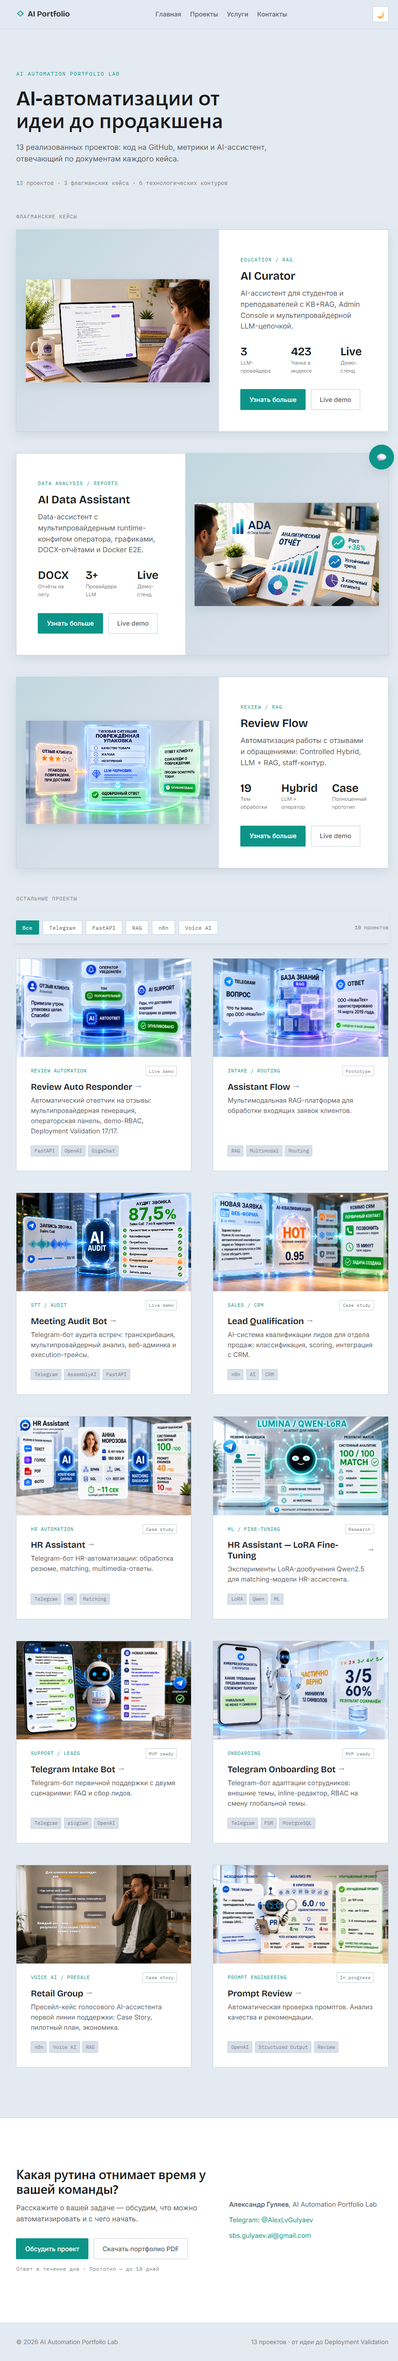
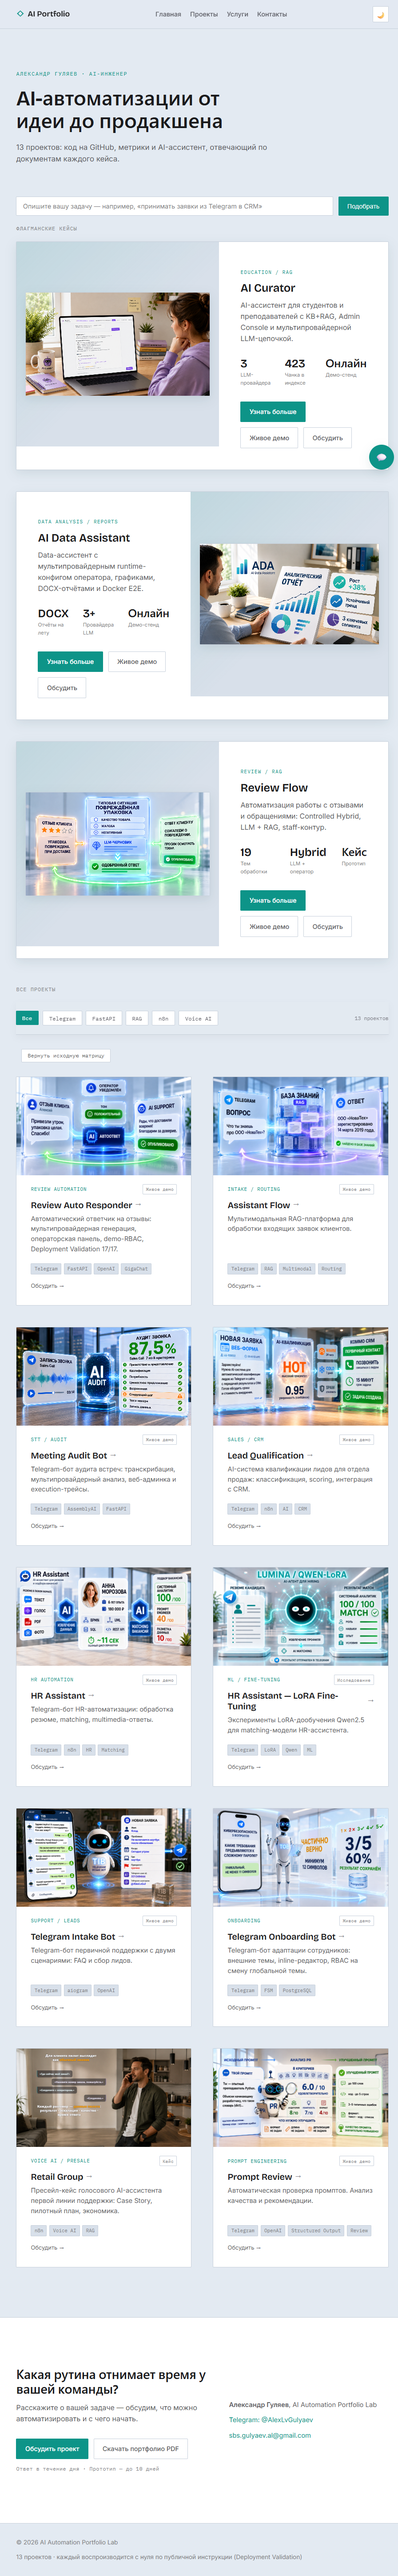
docs(media): 9 скриншотов UI — сцена подбора, панель документа, контакты, аудит, промпт-версии, health, обзор, документы, оценка ответа
- MEDIA_INDEX: IMG-006…IMG-014, матрица использования обновлена
- E2E_SCENARIOS: кадры в §1.1, §1.3, §1.4, §1.5, §2.2, §2.3, §2.4; новый §2.5
  «Проверка здоровья системы» (обзор + матрица retrieval-бэкендов)
- SYSTEM_DEMO: кадры в §1.4, §2 (обзор), §2.2, §2.3
- OPERATIONS §3.4: смена провайдера в аудите — admin-действие activate ai_config
- ROADMAP §5: полировка пресейл-аналитики (пустой вид при малых данных)

diff --git a/docs/E2E_SCENARIOS.md b/docs/E2E_SCENARIOS.md
@@ -20,6 +20,10 @@
 
 Что гарантируется на шаге 3: факты о составе портфеля ассистент берёт только из официального реестра проектов; утверждения о реализации — только из одобренных документов; каждый содержательный ответ сопровождается источниками.
 
+*IMG-007 — панель документа по клику на карточку источника:*
+
+![Панель документа с подсвеченным фрагментом](screenshots/AIP_ui_document_panel.png)
+
 ### 1.2. 🤖 Вопрос вне портфеля → честный ответ
 
 | Шаг | Действие | Результат |
@@ -36,6 +40,10 @@
 | 2 | Открывает «Услуги» → «Контакты» | Форма и состав сообщения для обращения |
 | 3 | Визит, открытие чата и вопросы фиксируются в пресейл-воронке | Владелец видит путь гостя в «Аналитика → Пресейл» |
 
+*IMG-008 — страница «Контакты»: каналы обращения и состав первого сообщения:*
+
+![Страница контактов](screenshots/AIP_ui_contacts.png)
+
 ### 1.4. 🧲 Подбор кейса под задачу (сцена на главной)
 
 | Шаг | Действие | Результат |
@@ -45,12 +53,20 @@
 | 3 | Если прямого кейса под задачу нет | Показаны 1–2 ближайших по смыслу с честной оговоркой |
 | 4 | Гость нажимает «Все» | Возвращается полная витрина |
 
+*IMG-006 — сцена подбора: задача «нужен бот приёма заявок из Telegram с выгрузкой в CRM», подобранные кейсы со строками «почему подходит»:*
+
+![Подбор кейса под задачу](screenshots/AIP_ui_case_match.png)
+
 ### 1.5. 👍 Оценка ответа ассистента
 
 | Шаг | Действие | Результат |
 |-----|----------|-----------|
 | 1 | Гость получает ответ ассистента | Под ответом — кнопки 👍 / 👎 |
 | 2 | Гость ставит оценку | Событие `chat_feedback` фиксируется анонимно (аналитика качества ответов) |
+
+*IMG-014 — короткий ответ ассистента с кнопками 👍/👎:*
+
+![Оценка ответа ассистента](screenshots/AIP_ui_chat_feedback.png)
 
 ---
 
@@ -77,6 +93,12 @@
 | 3 | Состав утверждён, синхронизация выполнена | Статус ✅ Одобрен, счётчик обновлён |
 | 4 | Кеш ответов инвалидируется автоматически | Ассистент отвечает по обновлённым документам |
 
+Контроль состава корпуса после обновления — консоль «Документы»:
+
+*IMG-013 — состав корпуса по файлам и источникам:*
+
+![Список документов корпуса](screenshots/AIP_ui_documents_list.png)
+
 ### 2.3. 📝 Смена системного промпта
 
 | Шаг | Действие | Консоль |
@@ -86,13 +108,37 @@
 | 3 | Контрольный вопрос подтверждает новое поведение | Ответ ассистента отражает обновлённые правила |
 | 4 | При необходимости — откат к любой исторической версии или к вшитому fallback | Одно действие в списке версий |
 
+*IMG-010 — панель «Системный промпт»: активная версия и история версий:*
+
+![Версии системного промпта](screenshots/AIP_ui_prompt_versions.png)
+
 ### 2.4. 🔌 Отказ основного LLM-провайдера → фоллбэк
 
 | Шаг | Действие | Результат |
 |-----|----------|-----------|
 | 1 | OpenAI стал отвечать ошибками | Чат-контур детектирует сбой провайдера |
 | 2 | Ответ собирается через GigaChat fallback | Гость получает ответ; переключение фиксируется в аудите |
-| 3 | Администратор видит переключение в «Наблюдаемость → Аудит» | Журнал провайдеров: активный → fallback |
+| 3 | Администратор видит переключение в «Наблюдаемость → Аудит» | Журнал провайдеров: активный → fallback (запись admin-действия `activate ai_config`) |
+
+*IMG-009 — аудит: записи admin-действий, среди них смена активного провайдера:*
+
+![Аудит admin-действий](screenshots/AIP_ui_audit_provider_switch.png)
+
+### 2.5. 🩺 Проверка здоровья системы
+
+| Шаг | Действие | Консоль |
+|-----|----------|---------|
+| 1 | Открыт «Система → Обзор» | Статусы PostgreSQL, векторного стора, LLM-провайдеров; объём KB; Last Sync |
+| 2 | Открыта «Система → Retrieval» | Матрица здоровья бэкендов: активный бэкенд (⚡), объём чанков, готовность каждого |
+| 3 | Контрольный вопрос ассистенту на сайте | Ответ со источниками — штатный путь работает |
+
+*IMG-012 — «Система → Обзор»:*
+
+![Обзор системы](screenshots/AIP_ui_system_overview.png)
+
+*IMG-011 — матрица здоровья векторных бэкендов:*
+
+![Матрица здоровья бэкендов](screenshots/AIP_ui_retrieval_health.png)
 
 ---
 

diff --git a/docs/screenshots/MEDIA_INDEX.md b/docs/screenshots/MEDIA_INDEX.md
@@ -27,6 +27,15 @@
 | IMG-003 | `AIP_ui_home_cards.png` | Главная страница — витрина карточек кейсов (одна из тем) | ✅ Готов |
 | IMG-004 | `AIP_ui_admission_source.png` | Карточка источника в консоли допуска (Admin Console → «Источники и синхронизация») | ✅ Готов |
 | IMG-005 | `AIP_ui_dialogs_execution.png` | Диалоговая сессия: парные реплики и execution-таймлайн (Admin Console → «Диалоги») | ✅ Готов |
+| IMG-006 | `AIP_ui_case_match.png` | Сцена подбора кейса по задаче на главной: поле задачи и подобранные кейсы со строками «почему подходит» | ✅ Готов |
+| IMG-007 | `AIP_ui_document_panel.png` | Панель документа в чате: фрагмент с подсвеченным цитированным местом и «GitHub →» | ✅ Готов |
+| IMG-008 | `AIP_ui_contacts.png` | Страница «Контакты»: каналы обращения и состав первого сообщения | ✅ Готов |
+| IMG-009 | `AIP_ui_audit_provider_switch.png` | Аудит: записи admin-действий (`activate ai_config` — смена активного LLM-провайдера) | ✅ Готов |
+| IMG-010 | `AIP_ui_prompt_versions.png` | Панель «Системный промпт»: активная версия и история версий (Admin Console → «Система → AI-настройки») | ✅ Готов |
+| IMG-011 | `AIP_ui_retrieval_health.png` | Матрица здоровья векторных бэкендов: активный бэкенд, объём чанков, готовность | ✅ Готов |
+| IMG-012 | `AIP_ui_system_overview.png` | «Система → Обзор»: статусы бэкендов, объём KB, Last Sync | ✅ Готов |
+| IMG-013 | `AIP_ui_documents_list.png` | Консоль «Документы»: состав корпуса по файлам и источникам | ✅ Готов |
+| IMG-014 | `AIP_ui_chat_feedback.png` | Короткий ответ ассистента с кнопками оценки 👍/👎 под ответом | ✅ Готов |
 
 ---
 
@@ -45,10 +54,19 @@
 | IMG-003 | §1.3 | — | — |
 | IMG-004 | §2.1 | — | — |
 | IMG-005 | §2.3 | — | — |
+| IMG-006 | — | §1.4 | — |
+| IMG-007 | — | §1.1 | — |
+| IMG-008 | §1.4 | §1.3 | — |
+| IMG-009 | §2.3 | §2.4 | — |
+| IMG-010 | §2.2 | §2.3 | — |
+| IMG-011 | — | §2.5 | — |
+| IMG-012 | §2 | §2.5 | — |
+| IMG-013 | — | §2.2 | — |
+| IMG-014 | — | §1.5 | — |
 
-Матрица сверена с фактическими вставками (03.09.2026): все пять изображений используются только в SYSTEM_DEMO.
+Матрица сверена с фактическими вставками (04.09.2026): пять кадров первого батча — в SYSTEM_DEMO, девять кадров второго батча (03.09–04.09) — в E2E_SCENARIOS и SYSTEM_DEMO.
 
-**Кандидаты следующего батча** (реализовано 03.09, скриншотов пока нет): панель документа с подсветкой фрагмента (USER_GUIDE §3, E2E 1.1 шаг 4), сцена подбора кейса по задаче на главной (USER_GUIDE §2, E2E 1.4), кнопки оценки ответа 👍/👎 (USER_GUIDE §3, E2E 1.5). Снятие и подписи — по решению владельца.
+**Кандидаты следующего батча:** пресейл-дашборд («Аналитика → Пресейл» — панель нуждается в полировке пост-релизом, см. [`../ROADMAP.md`](../ROADMAP.md) §5).
 
 ---
 

diff --git a/docs/SYSTEM_DEMO.md b/docs/SYSTEM_DEMO.md
@@ -42,11 +42,19 @@
 **Сделайте:** главная → лендинг релевантного кейса → «Услуги» → «Контакты».
 **Вы увидите:** полный пресейл-маршрут от вопроса к ассистенту до контакта; на странице кейса — что именно реализовано и какими метриками подтверждено.
 
+*IMG-008 — страница «Контакты», конечная точка маршрута:*
+
+![Страница контактов](screenshots/AIP_ui_contacts.png)
+
 ---
 
 ## 🎛 2. Admin Console в работе
 
 Консоль: https://af-admin.alex-n8n.site (доступ по токену — см. [`docs/ADMIN_GUIDE.md`](ADMIN_GUIDE.md)).
+
+*IMG-012 — «Система → Обзор»: статусы бэкендов, объём KB, Last Sync:*
+
+![Обзор системы](screenshots/AIP_ui_system_overview.png)
 
 ### 2.1. 🔄 Управляемый допуск знаний
 
@@ -62,6 +70,10 @@
 **Где:** «Система → AI-настройки».
 **Вы увидите:** активную версию системного промпта, историю версий с возможностью отката и сброс к вшитому fallback. Текст активного промпта опубликован целиком — [`docs/PROMPT_ARCHITECTURE.md`](PROMPT_ARCHITECTURE.md).
 
+*IMG-010 — панель «Системный промпт»: активная версия и история версий:*
+
+![Версии системного промпта](screenshots/AIP_ui_prompt_versions.png)
+
 ### 2.3. 📜 Наблюдаемость
 
 **Где:** «Наблюдаемость → Логи / Диалоги / Аудит».
@@ -70,6 +82,12 @@
 *IMG-005 — диалоговая сессия: парные реплики и execution-таймлайн:*
 
 ![Диалоговая сессия с execution-таймлайном](screenshots/AIP_ui_dialogs_execution.png)
+
+Журнал admin-действий в «Аудите»:
+
+*IMG-009 — записи admin-действий, среди них смена активного LLM-провайдера:*
+
+![Аудит admin-действий](screenshots/AIP_ui_audit_provider_switch.png)
 
 ### 2.4. 📈 Пресейл-воронка
 

diff --git a/docs/ROADMAP.md b/docs/ROADMAP.md
@@ -107,6 +107,7 @@
 
 ### Прочее
 
+- **Полировка пресейл-аналитики** — дашборд «Аналитика → Пресейл» при малых данных выглядит пустым (отмечено при съёмке скриншотов 04.09); привести панель к презентабельному состоянию (пустые состояния, пояснения, демо-периоды).
 - **Кнопка «Скачать портфолио»** — сейчас заглушка на главной; решение о реализации (PDF-генерация / ссылка) — за владельцем.
 - **Состав KB** — кандидаты: `BUSINESS_VALUE.md`, `SYSTEM_DEMO.md` (включение — с контролем пересечения фактов с уже индексированными документами).
 
